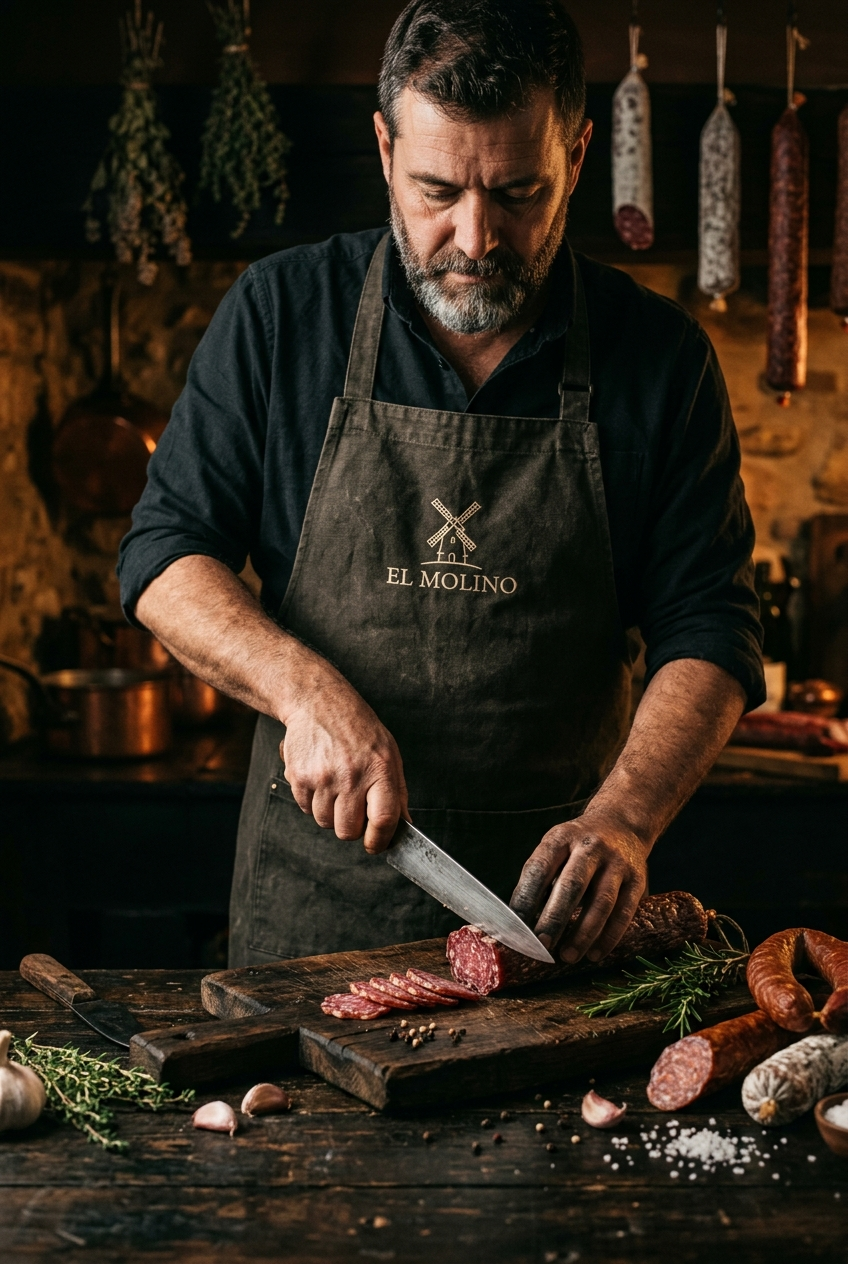
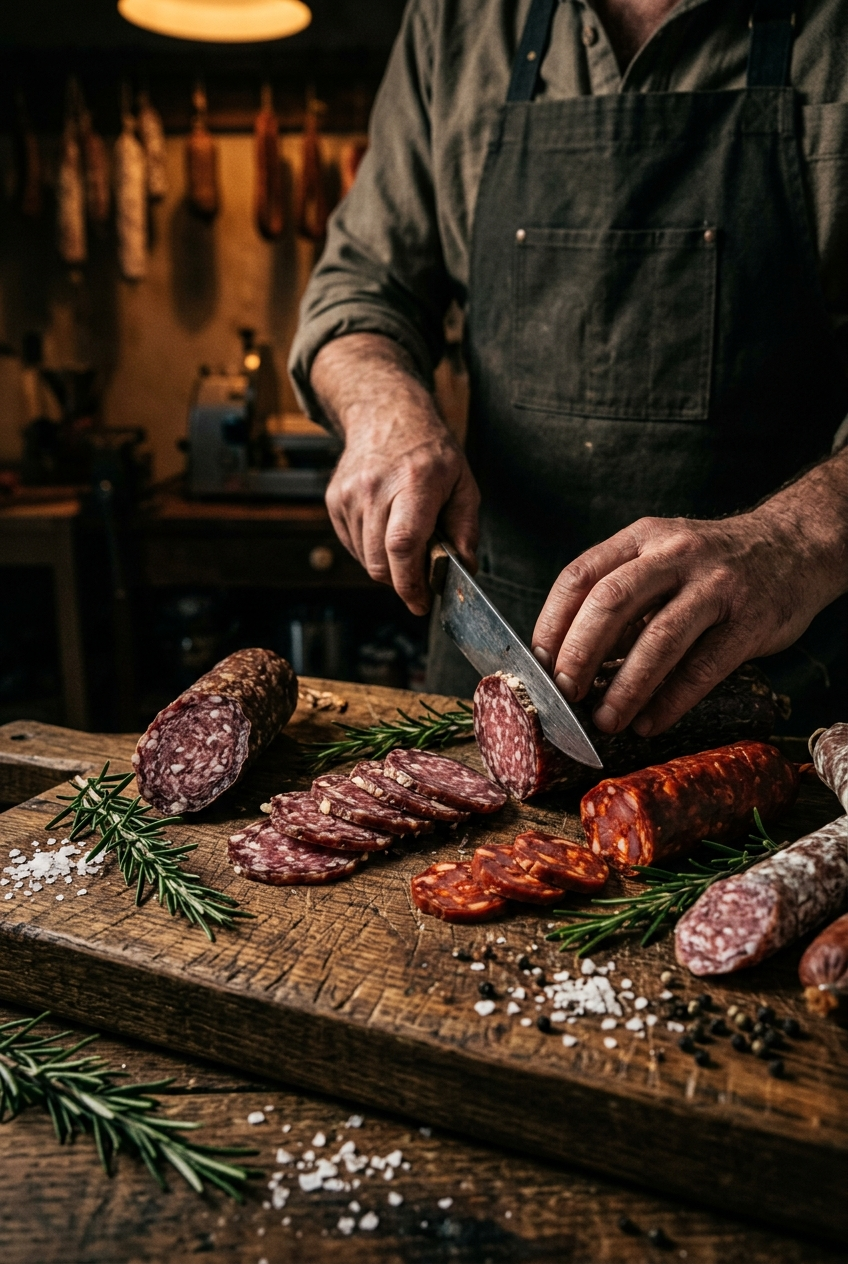
feat: story image v2 product-focused, text col wider 1.4fr, badges narrower 0.6fr

diff --git a/src/components/Story.jsx b/src/components/Story.jsx
@@ -12,7 +12,7 @@ export default function Story() {
   return (
     <section id="historia" className="overflow-hidden bg-coal text-white">
       {/* 3-column grid: 1/3 image | 1/3 text | 1/3 badges */}
-      <div className="grid min-h-[480px] lg:grid-cols-[1fr_1fr_1fr]">
+      <div className="grid min-h-[480px] lg:grid-cols-[1fr_1.4fr_0.6fr]">
 
         {/* ── Col 1: Chef image ── */}
         <motion.div
@@ -25,7 +25,7 @@ export default function Story() {
           <img
             src="/assets/story-chef.jpg"
             alt="Artesano de El Molino elaborando embutidos"
-            className="absolute inset-0 h-full w-full object-cover object-top"
+            className="absolute inset-0 h-full w-full object-cover object-[center_30%]"
           />
           {/* fade right into text column */}
           <div className="absolute inset-0 bg-[linear-gradient(to_right,rgba(0,0,0,0)_50%,rgba(20,14,8,0.85)_100%)]" />
